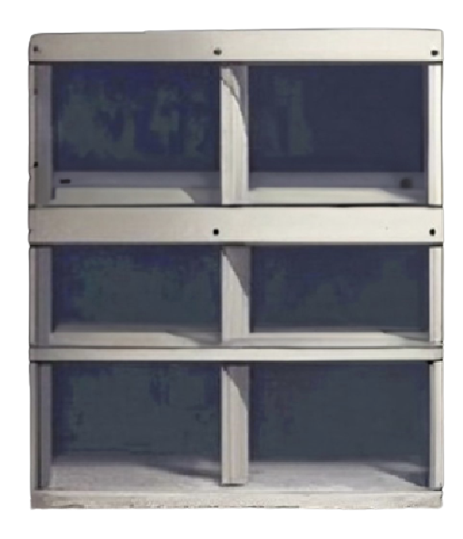
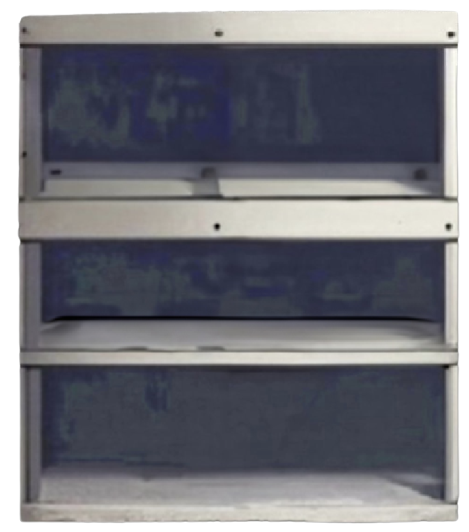
Added random locations for items and random rotation of rack

diff --git a/src/main/java/nz/ac/auckland/se206/controllers/StorageRoomController.java b/src/main/java/nz/ac/auckland/se206/controllers/StorageRoomController.java
@@ -1,13 +1,13 @@
 package nz.ac.auckland.se206.controllers;
 
 import java.io.IOException;
+import java.util.Random;
 import javafx.animation.RotateTransition;
 import javafx.animation.TranslateTransition;
 import javafx.fxml.FXML;
 import javafx.scene.Node;
 import javafx.scene.image.ImageView;
 import javafx.scene.input.MouseEvent;
-import javafx.scene.shape.Polygon;
 import javafx.scene.shape.Rectangle;
 import javafx.util.Duration;
 import nz.ac.auckland.se206.App;
@@ -22,24 +22,68 @@ public class StorageRoomController extends RoomController {
   @FXML private ImageView chemical1;
   @FXML private ImageView chemical2;
   @FXML private ImageView rack;
-  @FXML private Polygon chemical1Select;
-  @FXML private Polygon chemical2Select;
 
   private RotateTransition rackRotation;
 
   /** Initializes the Storage Room view */
   public void initialize() {
 
-    rackRotation = new RotateTransition(Duration.seconds(1), rack);
+    // Create a random number generator
+    Random random = new Random();
+
+    // Define the Y coordinates
+    double[] yCoordinates = {125, 234, 331};
+
+    // Randomly select Y coordinates for chemical1 and chemical2
+    double yCoordinate1 = yCoordinates[random.nextInt(yCoordinates.length)];
+    double yCoordinate2;
+
+    // Make sure that yCoordinate2 is different from yCoordinate1
+    do {
+      yCoordinate2 = yCoordinates[random.nextInt(yCoordinates.length)];
+    } while (yCoordinate2 == yCoordinate1);
+
+    // Loop through each chemical
+    for (ImageView chemical : new ImageView[] {chemical1, chemical2}) {
+      double yCoordinate;
+      if (chemical == chemical1) {
+        yCoordinate = yCoordinate1;
+      } else {
+        yCoordinate = yCoordinate2;
+      }
+
+      // Calculate a random X coordinate within the bounds
+      double minX = 480; // Minimum X coordinate
+      double maxX = 606; // Maximum X coordinate
+      double xCoordinate = minX + random.nextDouble() * (maxX - minX);
+
+      // Set the position of the chemical
+      chemical.setLayoutX(xCoordinate);
+      chemical.setLayoutY(yCoordinate);
+    }
+
+    // Randomly determine the rotation direction
+    boolean rotateRight = random.nextBoolean();
+    int rotationAngle;
+    if (rotateRight) {
+      rotationAngle = 10;
+    } else {
+      rotationAngle = -10;
+    }
+
+    rackRotation = new RotateTransition(Duration.seconds(0.5), rack);
     rackRotation.setCycleCount(RotateTransition.INDEFINITE);
-    rackRotation.setByAngle(10);
+    rackRotation.setByAngle(rotationAngle);
     rackRotation.setAutoReverse(true);
     rackRotation.play();
 
-    animateNode(chemical1, 10, 25);
-    animateNode(chemical1Select, 10, 25);
-    animateNode(chemical2, 10, 15);
-    animateNode(chemical2Select, 10, 15);
+    if (rotateRight) {
+      animateNode(chemical1, rotationAngle, 50);
+      animateNode(chemical2, rotationAngle, 50);
+    } else {
+      animateNode(chemical1, rotationAngle, -50);
+      animateNode(chemical2, rotationAngle, -50);
+    }
 
     // bind common room elements
     RoomManager.bindRoom(
@@ -70,12 +114,12 @@ public class StorageRoomController extends RoomController {
   }
 
   private void animateNode(Node node, int angle, int x) {
-    RotateTransition rotation = new RotateTransition(Duration.seconds(1), node);
+    RotateTransition rotation = new RotateTransition(Duration.seconds(0.5), node);
     rotation.setCycleCount(RotateTransition.INDEFINITE);
     rotation.setByAngle(angle);
     rotation.setAutoReverse(true);
 
-    TranslateTransition translation = new TranslateTransition(Duration.seconds(1), node);
+    TranslateTransition translation = new TranslateTransition(Duration.seconds(0.5), node);
     translation.setCycleCount(TranslateTransition.INDEFINITE);
     translation.setByX(x);
     translation.setAutoReverse(true);
@@ -130,7 +174,6 @@ public class StorageRoomController extends RoomController {
     chemical1.setOpacity(0);
     // make it unclickable
     chemical1.setDisable(true);
-    chemical1Select.setDisable(true);
     // add chemical to backpack
     chemical1Backpack.setOpacity(1);
     // change the state of the chemical
@@ -151,7 +194,6 @@ public class StorageRoomController extends RoomController {
     chemical2.setOpacity(0);
     // make it unclickable
     chemical2.setDisable(true);
-    chemical2Select.setDisable(true);
     // add chemical to backpack
     chemical2Backpack.setOpacity(1);
     // change the state of the chemical
@@ -167,11 +209,13 @@ public class StorageRoomController extends RoomController {
   @FXML
   public void hoverChemical1(MouseEvent event) throws IOException {
     // make the door area obaque
-    chemical1Select.setOpacity(0.5);
+    chemical1.setOpacity(0.5);
     // when not hovered, make the door area transparent again
-    chemical1Select.setOnMouseExited(
+    chemical1.setOnMouseExited(
         e -> {
-          chemical1Select.setOpacity(0);
+          if (!GameState.isChemical1Found) {
+            chemical1.setOpacity(1);
+          }
         });
   }
 
@@ -184,11 +228,13 @@ public class StorageRoomController extends RoomController {
   @FXML
   public void hoverChemical2(MouseEvent event) throws IOException {
     // make the door area obaque
-    chemical2Select.setOpacity(0.5);
+    chemical2.setOpacity(0.5);
     // when not hovered, make the door area transparent again
-    chemical2Select.setOnMouseExited(
+    chemical2.setOnMouseExited(
         e -> {
-          chemical2Select.setOpacity(0);
+          if (!GameState.isChemical2Found) {
+            chemical2.setOpacity(1);
+          }
         });
   }
 }
